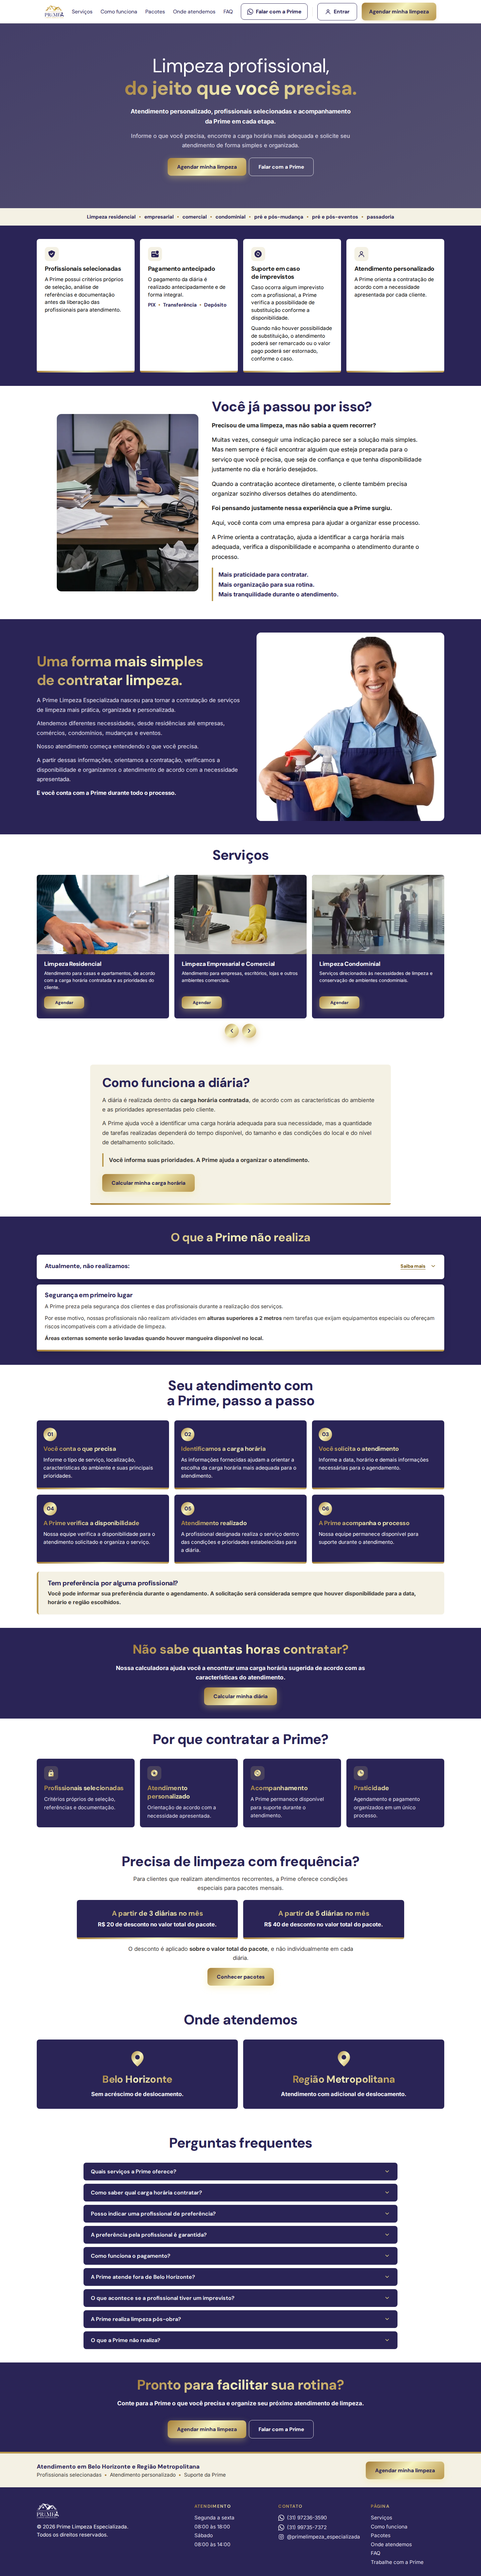
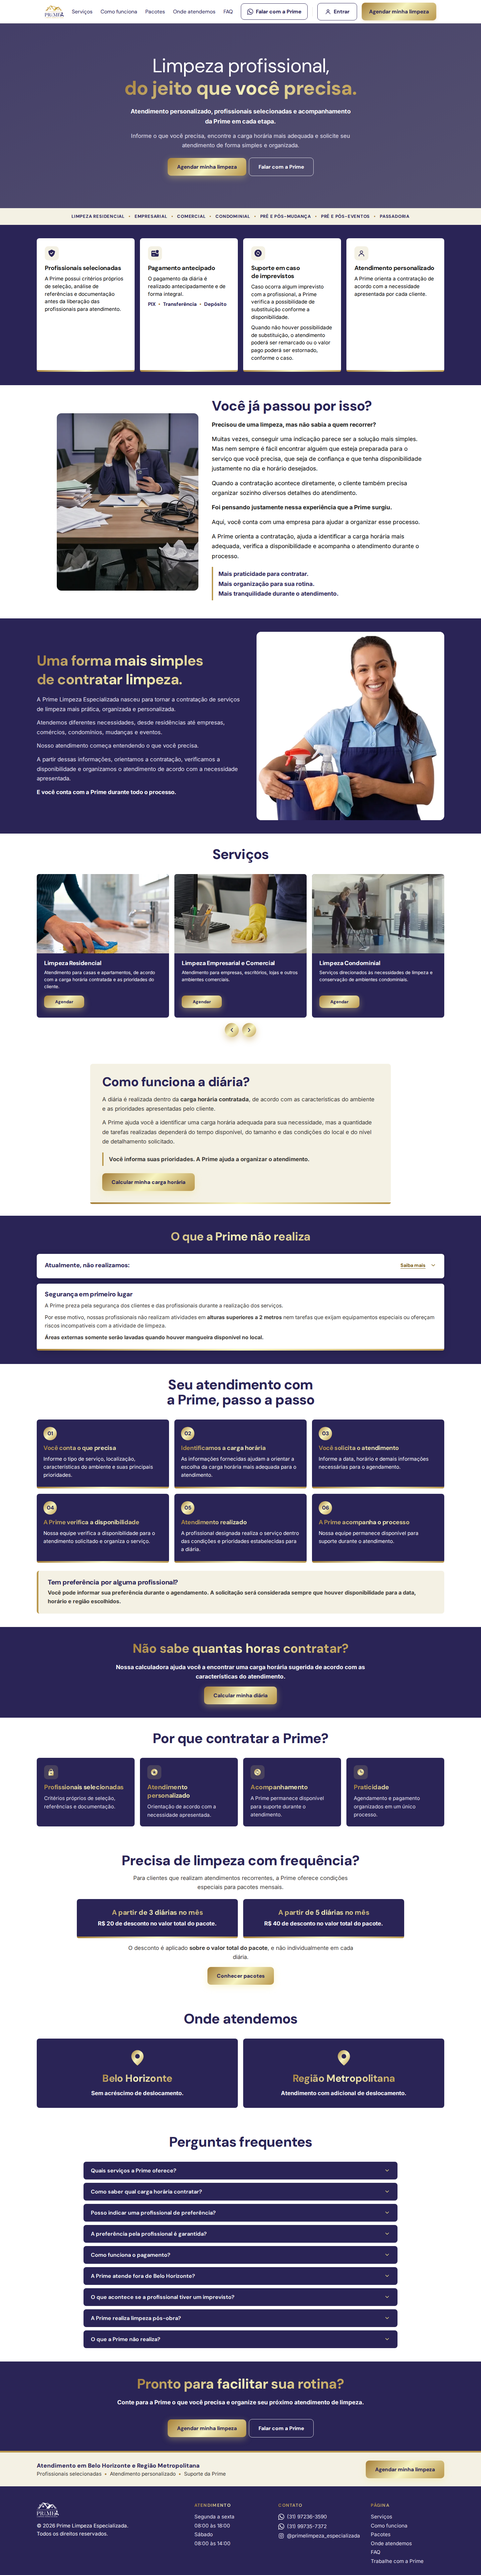
home: faixa de serviços em caixa alta pelo CSS, com separador no fim do item

diff --git a/src/ui/home.css b/src/ui/home.css
@@ -309,11 +309,12 @@ header .nav-cta .btn-primary{padding:16px 22px;}
 .hero-copy .hero-sub{color:#fff;font-size:1.12rem;margin-top:18px;}
 .hero-servicos{
   margin:0;background:#f4f1e4;color:var(--azul);text-align:center;padding:14px 24px;
-  font-family:'DM Sans',sans-serif;font-weight:700;font-size:.95rem;line-height:1.6;
+  font-family:'DM Sans',sans-serif;font-weight:700;font-size:.82rem;line-height:1.7;
+  text-transform:uppercase;letter-spacing:.06em; /* caixa alta só no CSS: o texto no HTML fica como a cliente escreveu */
 }
-.hero-servicos{display:flex;flex-wrap:wrap;justify-content:center;column-gap:10px;row-gap:2px;}
+.hero-servicos{display:flex;flex-wrap:wrap;justify-content:center;column-gap:12px;row-gap:2px;}
 .hero-servicos span{white-space:nowrap;}
-.hero-servicos span + span::before{content:"•";color:#A57E37;margin-right:10px;}
+.hero-servicos span:not(:last-child)::after{content:"•";color:#A57E37;margin-left:12px;} /* separador no fim do item: ao quebrar a linha, não sobra bolinha solta no começo */
 
 /* cards de confiança (4) */
 .trust-grid{grid-template-columns:repeat(4,1fr);}
